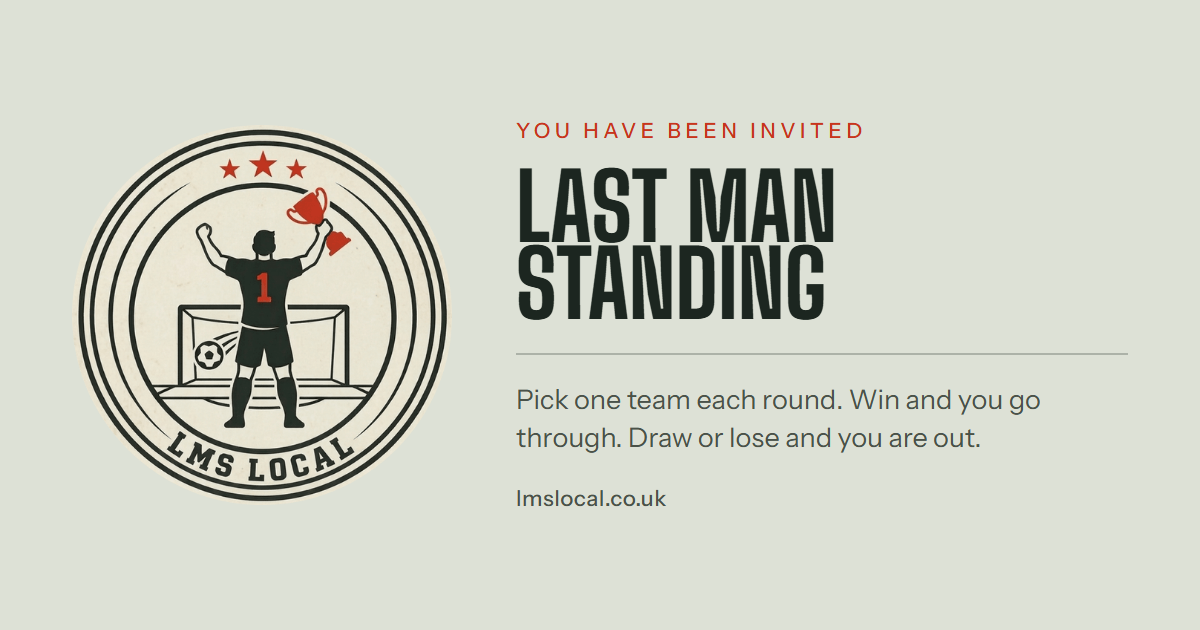
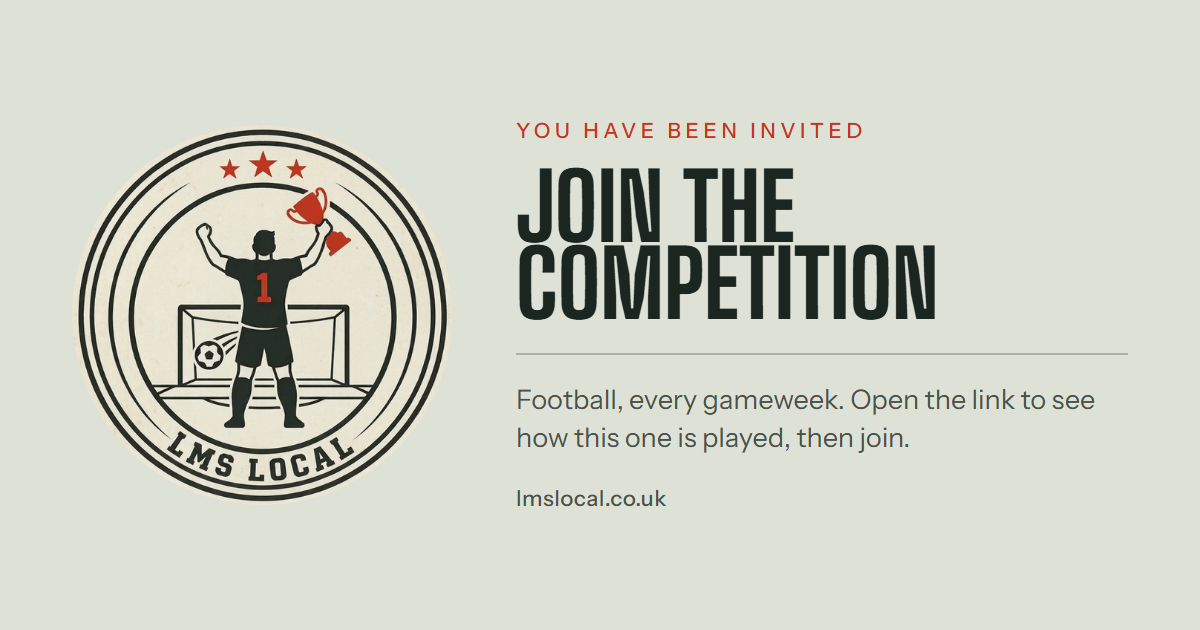
Keep Matchday in preview, and make the invite preview game-neutral
Only organiser 50 can create a Matchday competition until it launches
(MATCHDAY_PREVIEW_ORGANISER_IDS in services/gameType.js; launching is setting it to null).
create-competition refuses it from anyone else with FORBIDDEN, and get-user-dashboard
reports user.can_create_games so the wizard shows everyone else the old three steps with no
"Which game?" question.

The invite link preview named Last Man Standing and stated its rules, so a Matchday invite
previewed as the other game. Title, description and og-join.png now name neither; the join
page names the game when it opens.

Changed region(s): [[0.4317, 0.2413, 0.8017, 0.5127], [0.4317, 0.6032, 0.925, 0.7238]]

diff --git a/lmslocal-web/src/app/competition/create/page.tsx b/lmslocal-web/src/app/competition/create/page.tsx
@@ -51,7 +51,7 @@ const DEFAULT_ENDING: Record<MatchdayEndRule, number> = { points: 100, rounds: 1
 
 export default function CreateCompetitionPage() {
   const router = useRouter();
-  const { refreshCompetitions } = useAppData();
+  const { refreshCompetitions, user } = useAppData();
   const [teamLists, setTeamLists] = useState<TeamList[]>([]);
   const [loading, setLoading] = useState(false);
   const [error, setError] = useState('');
@@ -88,6 +88,31 @@ export default function CreateCompetitionPage() {
   // mistake an organiser cannot undo: it is fixed at creation.
   const [gameType, setGameType] = useState<GameType | null>(null);
   const isMatchday = gameType === 'matchday';
+
+  // Matchday is in preview (services/gameType.js). Anyone who can only create Last Man Standing
+  // gets the wizard exactly as it was - three steps, no "Which game?" - because a question with one
+  // answer is not a question, and a customer must not meet a game that is not ready.
+  //
+  // Hidden until the server says otherwise: the safe default is the old wizard. If the answer
+  // arrives after an organiser has started typing, they keep the wizard they are using.
+  const offersGameChoice = user?.can_create_games?.includes('matchday') === true;
+  const nameTyped = Boolean(watchedValues.name);
+  useEffect(() => {
+    if (offersGameChoice) {
+      // The answer came after the wizard had already skipped the question - put it back, unless
+      // they have begun the details, in which case "Back: Game" is there if they want it.
+      if (!nameTyped) {
+        setStep(current => (current === 2 ? 1 : current));
+        setGameType(current => (current === 'lms' ? null : current));
+      }
+      return;
+    }
+    setGameType('lms');
+    setStep(current => (current === 1 ? 2 : current));
+    // eslint-disable-next-line react-hooks/exhaustive-deps
+  }, [offersGameChoice]);
+  const visibleSteps = offersGameChoice ? STEPS : STEPS.slice(1);
+  const stepOffset = offersGameChoice ? 0 : 1;
   const [endRule, setEndRule] = useState<MatchdayEndRule>('points');
   const [endValue, setEndValue] = useState<string>(String(DEFAULT_ENDING.points));
   const endValueNumber = Number(endValue);
@@ -238,16 +263,16 @@ export default function CreateCompetitionPage() {
         {/* Progress Steps */}
         <div className="mt-6">
           <div className="flex items-center">
-            {STEPS.map((label, i) => {
-              const num = i + 1;
+            {visibleSteps.map((label, i) => {
+              const num = i + 1 + stepOffset;
               return (
                 <div key={label} className="flex flex-1 items-center last:flex-none">
                   <div className={`flex h-8 w-8 flex-shrink-0 items-center justify-center border font-display text-sm ${
                     step >= num ? 'border-ink bg-ink text-stock-lit' : 'border-ink/30 text-ink-fade'
                   }`}>
-                    {num}
+                    {i + 1}
                   </div>
-                  {num < STEPS.length && (
+                  {i + 1 < visibleSteps.length && (
                     <div className={`mx-2 h-px flex-1 sm:mx-4 ${step > num ? 'bg-ink' : 'bg-ink/20'}`} />
                   )}
                 </div>
@@ -255,7 +280,7 @@ export default function CreateCompetitionPage() {
             })}
           </div>
           <div className="mt-2 flex justify-between px-1">
-            {STEPS.map((label) => (
+            {visibleSteps.map((label) => (
               <span key={label} className={`${LABEL} flex-1 text-center text-ink-fade first:text-left last:text-right`}>
                 {label}
               </span>
@@ -468,13 +493,15 @@ export default function CreateCompetitionPage() {
               </div>
 
               <div className="mt-6 flex flex-col justify-between gap-3 sm:mt-8 sm:flex-row">
-                <button
-                  type="button"
-                  onClick={() => setStep(1)}
-                  className={`${BTN_OUTLINE} order-2 justify-center px-6 py-3 sm:order-1`}
-                >
-                  Back: Game
-                </button>
+                {offersGameChoice ? (
+                  <button
+                    type="button"
+                    onClick={() => setStep(1)}
+                    className={`${BTN_OUTLINE} order-2 justify-center px-6 py-3 sm:order-1`}
+                  >
+                    Back: Game
+                  </button>
+                ) : <span className="order-2 sm:order-1" />}
                 <button
                   type="button"
                   onClick={() => setStep(3)}

diff --git a/lmslocal-server/routes/create-competition.js b/lmslocal-server/routes/create-competition.js
@@ -72,6 +72,8 @@ Return Codes:
 "SUCCESS"
 "VALIDATION_ERROR"            - Includes an unknown game_type, a Matchday competition without the
                                fixture service, and a missing or out-of-range end_rule / end_value
+"FORBIDDEN"                   - A game this organiser may not create yet (Matchday is in preview -
+                               gamesUserCanCreate in services/gameType.js)
 "FIXTURE_SERVICE_UNAVAILABLE" - Fixture service requested for a team list we do not stage fixtures for
 "START_BLOCK_UNAVAILABLE"    - The chosen start date was promoted, edited or deleted since the form loaded
 "START_BLOCK_TOO_SOON"       - The chosen start date is now inside the lead time
@@ -85,6 +87,7 @@ const { transaction } = require('../database');
 const { verifyToken } = require('../middleware/auth');
 const { createRoundFromBlock } = require('../services/fixtureBlock');
 const { endingProblem } = require('../services/matchdayScoring');
+const { gamesUserCanCreate } = require('../services/gameType');
 const router = express.Router();
 
 router.post('/', verifyToken, async (req, res) => {
@@ -133,6 +136,15 @@ router.post('/', verifyToken, async (req, res) => {
       return res.json({
         return_code: "VALIDATION_ERROR",
         message: "Unknown game type"
+      });
+    }
+
+    // Matchday is in preview: refused for everyone not on the list, even from a client that sends
+    // it. The wizard hides the question from them, so this is the backstop, not the gate's face.
+    if (!gamesUserCanCreate(organiser_id).includes(gameType)) {
+      return res.json({
+        return_code: "FORBIDDEN",
+        message: "That game isn't available yet"
       });
     }
 

diff --git a/lmslocal-server/routes/get-user-dashboard.js b/lmslocal-server/routes/get-user-dashboard.js
@@ -15,7 +15,9 @@ Success Response (ALWAYS HTTP 200):
     "id": 1,                                    // integer, user ID
     "display_name": "John Smith",               // string, user's global display name
     "email": "john@example.com",                // string, user's email
-    "email_verified": true                      // boolean, email verification status
+    "email_verified": true,                     // boolean, email verification status
+    "can_create_games": ["lms"]                 // string[], games this user may create - Matchday only
+                                                //   while in preview (services/gameType.js)
   },
   "competitions": [
     {
@@ -117,7 +119,7 @@ const { query } = require('../database');
 const { verifyToken } = require('../middleware/auth');
 const { logApiCall } = require('../utils/apiLogger');
 const { getPlaceUsage } = require('../services/placeUsage');
-const { clientGameTypes } = require('../services/gameType');
+const { clientGameTypes, gamesUserCanCreate } = require('../services/gameType');
 const { getMatchdayTables } = require('../services/matchdayTable');
 const router = express.Router();
 
@@ -748,7 +750,9 @@ router.post('/', verifyToken, async (req, res) => {
       id: user_id,
       display_name: userDataResult.rows[0].display_name,
       email: userDataResult.rows[0].email,
-      email_verified: userDataResult.rows[0].email_verified
+      email_verified: userDataResult.rows[0].email_verified,
+      // The create wizard asks "Which game?" only when there is more than one answer.
+      can_create_games: gamesUserCanCreate(user_id)
     } : null;
 
     // === PLAYERS TURNED AWAY BY THE CREDIT LIMIT ===

diff --git a/lmslocal-server/services/gameType.js b/lmslocal-server/services/gameType.js
@@ -37,6 +37,33 @@ const GAME_TYPES = {
 };
 
 /*
+MATCHDAY IS IN PREVIEW (2026-11-22). Only these organisers may create one; everyone else creates
+Last Man Standing exactly as before, and never sees the question. Enforced in create-competition
+and reported to the web as user.can_create_games on get-user-dashboard, so the wizard hides its
+"Which game?" step from anyone who could not use the answer.
+
+LAUNCHING IS SETTING THIS TO null (everyone), not deleting the gate. It is in code rather than
+.env because opening a game to every customer should be a reviewed commit with its own deploy,
+not an edit on the VPS that leaves no trace - the same choice BOT_ORGANISER_IDS made.
+
+What preview does NOT hide: competitions that already exist. A player invited into a test
+Matchday competition plays it like anyone would; the gate is on creating one.
+*/
+const MATCHDAY_PREVIEW_ORGANISER_IDS = [50];
+
+/**
+ * The games this user may create a competition in. LMS always.
+ *
+ * @param {number} userId
+ * @returns {string[]}
+ */
+function gamesUserCanCreate(userId) {
+  const matchdayOpen = MATCHDAY_PREVIEW_ORGANISER_IDS === null
+    || MATCHDAY_PREVIEW_ORGANISER_IDS.includes(userId);
+  return matchdayOpen ? ['lms', 'matchday'] : ['lms'];
+}
+
+/*
 LMS-ONLY. Compose into the WHERE clause of any query whose rules or words are Last Man Standing's:
 every scoped email's candidate query, above all, since their copy talks about picks and lives.
 
@@ -105,6 +132,7 @@ const NOT_LMS_RESPONSE = {
 
 module.exports = {
   GAME_TYPES,
+  gamesUserCanCreate,
   isLmsSql,
   clientGameTypes,
   isLmsCompetition,

diff --git a/lmslocal-marketing/social/og-join.html b/lmslocal-marketing/social/og-join.html
@@ -28,6 +28,11 @@
       have been invited"). §9 of docs/design-system.md reserves "you" for the
       organiser on marketing pages and names the join route as the exception.
 
+      Game-neutral since 2026-11-22. The link may be to Last Man Standing or to
+      Matchday (docs/matchday.md), and this image is the same for both: it is
+      static, and naming one game would mis-sell every invite to the other. The
+      join page itself names the game and its rules.
+
       Deliberately says nothing about entry fees, prizes or player counts. The
       organiser sets those and we do not know them, and the whole reason this
       file exists is that the site-wide preview was selling the platform to
@@ -67,7 +72,7 @@
           </p>
 
           <h1 class="mt-[22px] font-display text-[92px] font-extrabold uppercase leading-[0.84]">
-            Last man<br />standing
+            Join the<br />competition
           </h1>
 
           <!-- 2px rather than a hairline: at 1200px wide a 1px rule survives the
@@ -75,7 +80,7 @@
           <div class="mt-[30px] h-[2px] w-full shrink-0 bg-ink/25"></div>
 
           <p class="mt-[26px] text-[27px] leading-[1.4] text-ink-fade">
-            Pick one team each round. Win and you go through. Draw or lose and you are out.
+            Football, every gameweek. Open the link to see how this one is played, then join.
           </p>
 
           <p class="mt-[26px] text-[22px] font-medium tracking-wide text-ink-fade">

diff --git a/lmslocal-web/src/app/join/[code]/layout.tsx b/lmslocal-web/src/app/join/[code]/layout.tsx
@@ -20,9 +20,15 @@ import type { Metadata } from 'next';
  * already uses ("You have been invited").
  */
 
-const TITLE = "You've been invited to a Last Man Standing competition";
+/*
+ * GAME-NEUTRAL (2026-11-22). An invite can be to Last Man Standing or to Matchday
+ * (docs/matchday.md), and this copy is fixed - see above for why it is not looked up per
+ * competition. Naming either game here would describe the other one wrongly, so it names
+ * neither; the page names the game the moment it opens.
+ */
+const TITLE = "You've been invited to a football competition";
 const DESCRIPTION =
-  'Pick one team each round to win. If they lose or draw, you are out. Last one standing takes it. Enter your invite code to join.';
+  'Football, every gameweek. Open the link to see the competition and how it is played, then join with your invite code.';
 
 /*
  * Its own image, not the site-wide one — same reason as the copy. Source and
@@ -36,7 +42,7 @@ const IMAGE = {
   url: '/og-join.png',
   width: 1200,
   height: 630,
-  alt: 'Last Man Standing — pick one team each round. Win and you go through. Draw or lose and you are out.',
+  alt: 'LMSLocal — you have been invited to join a football competition.',
 };
 
 export async function generateMetadata({

diff --git a/lmslocal-web/src/contexts/AppDataContext.tsx b/lmslocal-web/src/contexts/AppDataContext.tsx
@@ -130,7 +130,9 @@ export const AppDataProvider: React.FC<AppDataProviderProps> = ({ children }) =>
             ...localUser,
             display_name: competitionsData.data.user.display_name,
             email: competitionsData.data.user.email,
-            email_verified: competitionsData.data.user.email_verified
+            email_verified: competitionsData.data.user.email_verified,
+            // Which games the create wizard offers (Matchday is in preview - services/gameType.js)
+            can_create_games: competitionsData.data.user.can_create_games ?? ['lms']
           };
 
           // Update localStorage with fresh data

diff --git a/lmslocal-web/src/lib/api.ts b/lmslocal-web/src/lib/api.ts
@@ -114,6 +114,8 @@ export interface User {
   display_name: string;
   name?: string;
   is_managed?: boolean;
+  /** Games this user may create. Matchday is listed only while they are in its preview. */
+  can_create_games?: GameType[];
 }
 
 // Credit system interfaces (PAYG model)
@@ -1029,6 +1031,7 @@ export const userApi = {
           display_name: string;
           email: string;
           email_verified: boolean;
+          can_create_games?: GameType[];
         };
         competitions?: Competition[];
         latest_round_stats?: {
